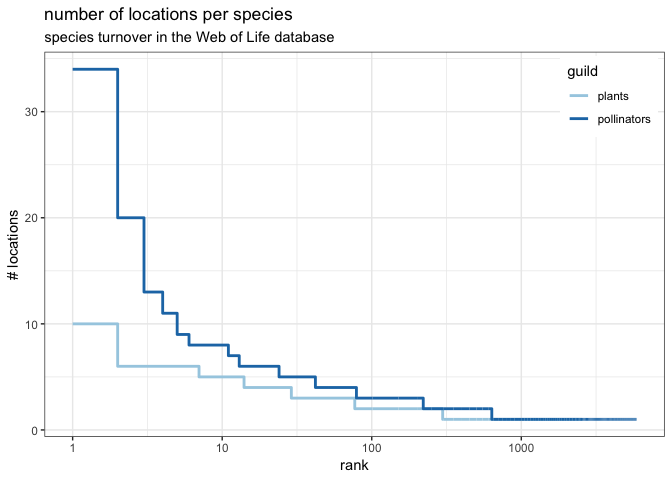
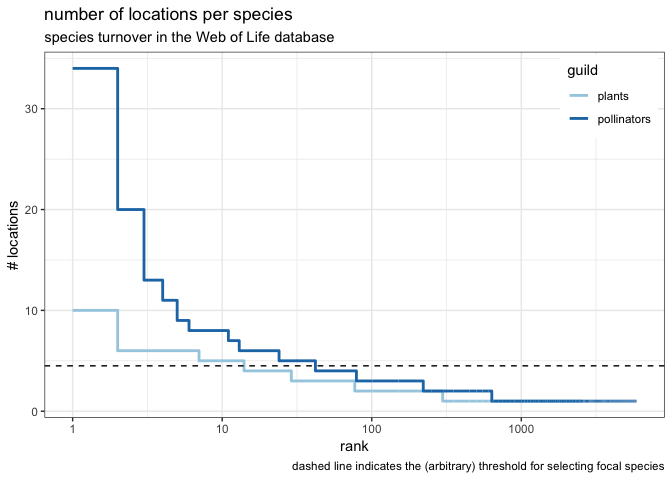
Add relationship between "widespreadness" and degree

diff --git a/paper/data-exploration/turnover.md b/paper/data-exploration/turnover.md
@@ -60,3 +60,26 @@ Species & interaction turnover
 | 18  | Fuchsia regia         | Clytolaema rubricauda    |             3|
 | 19  | Galactites tomentosa  | Apis mellifera           |             3|
 | 20  | Galium propinquum     | Heteria appendiculata    |             3|
+
+### Degree vs. widespread
+
+![](turnover_files/figure-markdown_github/unnamed-chunk-6-1.png)
+
+| guild | species               |  \# locations|  degree|
+|:------|:----------------------|-------------:|-------:|
+| pla   | Fuchsia regia         |             5|       6|
+| pla   | Ixeris dentata        |             6|      38|
+| pla   | Hypochoeris radicata  |             6|      72|
+| pla   | Cirsium arvense       |             5|      83|
+| pol   | Andrena Knuthi        |             5|       9|
+| pol   | Clytolaema rubricauda |             5|      16|
+| pol   | Helophilus virgatus   |             6|      24|
+| pol   | Maniola jurtina       |             7|      30|
+| pol   | Thalurania glaucopis  |             5|      31|
+| pol   | Bombus lapidarius     |             6|      33|
+| pol   | Bombus terrestris     |             8|      42|
+| pol   | Eristalis cerealis    |             6|      49|
+| pol   | Bombus pascuorum      |             6|      55|
+| pol   | Eristalis tenax       |            20|     107|
+| pol   | Episyrphus balteatus  |            13|     143|
+| pol   | Apis mellifera        |            34|     444|
